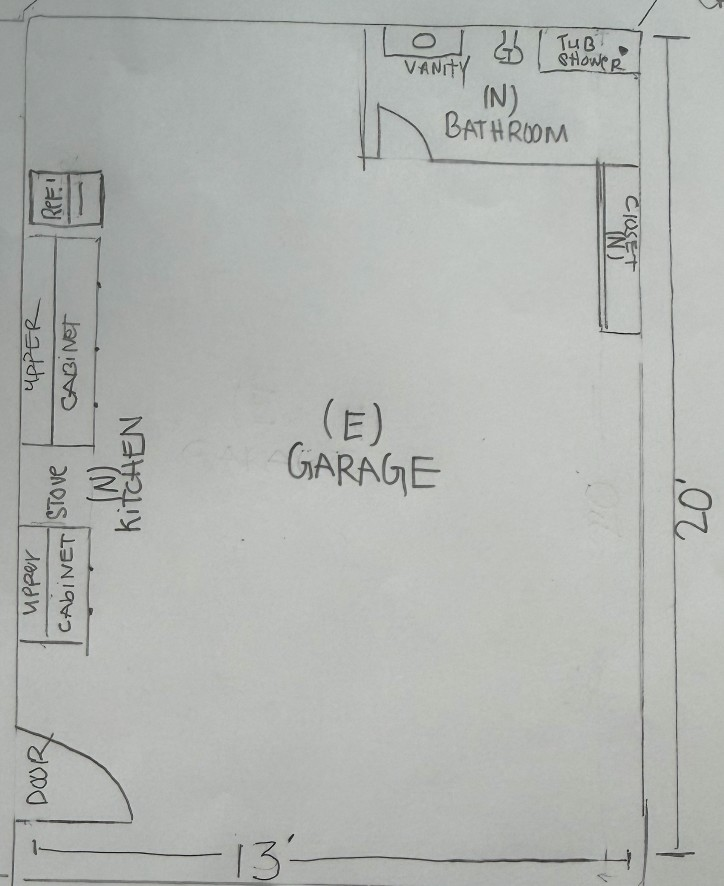
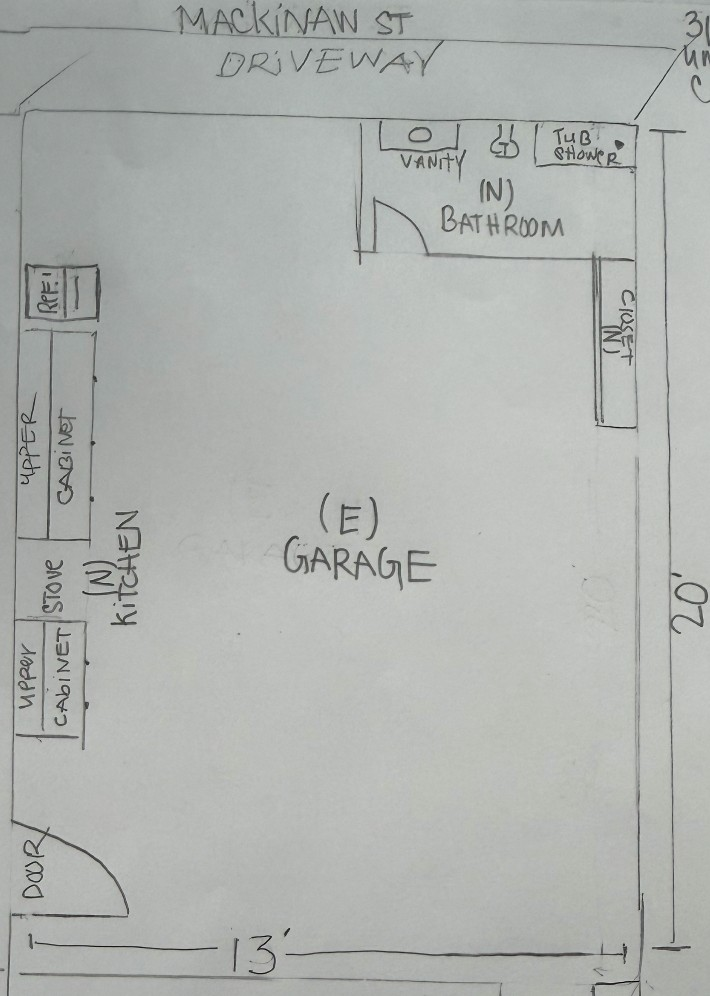
Fix Mackinaw JADU layout to match client floor plan.
Move the fridge to the driveway end of the kitchen, correct depths, and remove the street-facing window from the dollhouse.

diff --git a/vconcept/Mackinaw_Union_City/index.html b/vconcept/Mackinaw_Union_City/index.html
@@ -189,7 +189,7 @@ footer .wrap{display:flex;justify-content:space-between;gap:20px;flex-wrap:wrap}
 
 <section style="padding-top:0"><div class="wrap">
   <div class="sec-head"><div><span class="eyebrow">Floor plans</span><h2>Client sketch + modeled layout</h2></div>
-    <p>The 3D dollhouse and walkthrough follow this 13′ × 20′ garage plan: kitchen on the left, bathroom and closet on the right, entry at the front corner.</p></div>
+    <p>The 3D dollhouse and walkthrough follow this 13′ × 20′ plan: kitchen on the left (fridge at the driveway end), bathroom and closet on the right, entry opposite Mackinaw, solid street wall (no window).</p></div>
   <div class="plan-cols">
     <figure class="plan-photo">
       <img src="assets/mackinaw-floor-plan.jpg" width="1200" height="1600" alt="Hand-drawn floor plan of the 13 by 20 foot garage conversion showing new kitchen, bathroom, and closet">
@@ -197,55 +197,59 @@ footer .wrap{display:flex;justify-content:space-between;gap:20px;flex-wrap:wrap}
     </figure>
     <div>
       <div class="plan">
-<svg viewBox="0 0 340 520" role="img" aria-label="Annotated floor plan matching the client sketch">
+<svg viewBox="0 0 360 560" role="img" aria-label="Annotated floor plan matching the client sketch">
   <defs><pattern id="hatch" width="6" height="6" patternUnits="userSpaceOnUse" patternTransform="rotate(45)"><line x1="0" y1="0" x2="0" y2="6" stroke="#c9b9a0" stroke-width="2"/></pattern></defs>
-  <!-- outer shell 13w x 20d mapped to 260x400 -->
-  <rect x="40" y="40" width="260" height="400" fill="#f3ede3" stroke="#1c2630" stroke-width="5"/>
-  <!-- entry door bottom-left -->
-  <path d="M40 400 L40 360" stroke="#1c2630" stroke-width="5"/>
-  <path d="M40 400 a40 40 0 0 1 40 -40" fill="none" stroke="#8d99a4" stroke-dasharray="3 3"/>
-  <text x="58" y="430" font-family="Inter" font-size="11" fill="#5f6b75">ENTRY</text>
-  <!-- kitchen along left -->
-  <rect x="40" y="120" width="58" height="240" fill="#7f927c" opacity=".88"/>
-  <rect x="46" y="140" width="46" height="36" fill="#55634f"/>
-  <text x="69" y="162" text-anchor="middle" font-size="9" fill="#fff" font-family="Archivo,Inter" font-weight="700">STOVE</text>
-  <rect x="46" y="190" width="46" height="28" fill="#efebe5" stroke="#1c2630"/>
-  <text x="69" y="208" text-anchor="middle" font-size="8" fill="#1c2630" font-family="Inter">SINK</text>
-  <rect x="46" y="320" width="46" height="28" fill="#b9bdc0"/>
-  <text x="69" y="338" text-anchor="middle" font-size="8" fill="#1c2630" font-family="Inter">REF.</text>
-  <text x="18" y="210" transform="rotate(-90 18 210)" font-family="Archivo,Inter" font-weight="700" font-size="12" fill="#1c2630">(N) KITCHEN</text>
-  <text x="69" y="112" text-anchor="middle" font-size="9" fill="#55634f" font-family="Inter">UPPER CABINET</text>
-  <text x="69" y="300" text-anchor="middle" font-size="9" fill="#55634f" font-family="Inter">UPPER CABINET</text>
-  <!-- bathroom top-right -->
-  <rect x="190" y="40" width="110" height="130" fill="url(#hatch)" stroke="#1c2630" stroke-width="3.5"/>
-  <rect x="190" y="40" width="110" height="130" fill="#e9e3d8" opacity=".55"/>
-  <rect x="200" y="55" width="42" height="22" fill="#6e4a33"/>
-  <ellipse cx="221" cy="64" rx="8" ry="5" fill="#fff"/>
-  <text x="221" y="90" text-anchor="middle" font-size="9" fill="#1c2630" font-family="Inter">VANITY</text>
-  <ellipse cx="270" cy="78" rx="10" ry="12" fill="#fff" stroke="#1c2630"/>
-  <rect x="248" y="110" width="42" height="48" fill="#a9bba5" opacity=".85"/>
-  <text x="269" y="138" text-anchor="middle" font-size="8" fill="#1c2630" font-family="Inter">TUB</text>
-  <text x="269" y="150" text-anchor="middle" font-size="8" fill="#1c2630" font-family="Inter">SHOWER</text>
-  <!-- bath door -->
-  <path d="M190 120 L190 155" stroke="#f3ede3" stroke-width="8"/>
-  <path d="M190 120 a35 35 0 0 0 35 35" fill="none" stroke="#8d99a4" stroke-dasharray="3 3"/>
-  <text x="245" y="36" text-anchor="middle" font-family="Archivo,Inter" font-weight="700" font-size="12" fill="#1c2630">(N) BATHROOM</text>
-  <!-- closet below bath on right -->
-  <rect x="230" y="180" width="70" height="70" fill="#d9d0c1" stroke="#1c2630" stroke-width="2.5"/>
-  <line x1="247" y1="185" x2="247" y2="245" stroke="#8d7f6a" stroke-width="2"/>
-  <line x1="265" y1="185" x2="265" y2="245" stroke="#8d7f6a" stroke-width="2"/>
-  <line x1="283" y1="185" x2="283" y2="245" stroke="#8d7f6a" stroke-width="2"/>
-  <text x="265" y="270" text-anchor="middle" font-family="Archivo,Inter" font-weight="700" font-size="12" fill="#1c2630">(N) CLOSET</text>
-  <!-- center existing garage -->
-  <text x="170" y="300" text-anchor="middle" font-family="Archivo,Inter" font-weight="800" font-size="18" fill="#1c2630">(E) GARAGE</text>
-  <text x="170" y="322" text-anchor="middle" font-family="Inter" font-size="12" fill="#5f6b75">open living</text>
-  <!-- dimensions -->
-  <text x="170" y="470" text-anchor="middle" font-family="Inter" font-size="13" fill="#5f6b75">13′</text>
-  <text x="322" y="240" text-anchor="middle" transform="rotate(90 322 240)" font-family="Inter" font-size="13" fill="#5f6b75">20′</text>
+  <!-- Street / driveway at TOP -->
+  <text x="180" y="28" text-anchor="middle" font-family="Archivo,Inter" font-weight="700" font-size="12" fill="#8a6a2f" letter-spacing=".06em">MACKINAW ST DRIVEWAY</text>
+  <!-- Outer shell: 13' wide x 20' deep. Scale: 20 px/ft → 260 x 400 -->
+  <rect x="50" y="48" width="260" height="400" fill="#f3ede3" stroke="#1c2630" stroke-width="5"/>
+  <!-- Entry door BOTTOM-LEFT -->
+  <path d="M50 408 L50 368" stroke="#f3ede3" stroke-width="8"/>
+  <path d="M50 408 a40 40 0 0 1 40 -40" fill="none" stroke="#8d99a4" stroke-dasharray="3 3"/>
+  <text x="78" y="438" font-family="Inter" font-size="11" fill="#5f6b75">DOOR</text>
+  <!-- Kitchen along LEFT: ~2' deep (40px). From door toward street.
+       Order bottom→top: upper, stove, longer upper, REF at street end -->
+  <!-- base/counter run (not under fridge) -->
+  <rect x="50" y="148" width="40" height="260" fill="#7f927c" opacity=".9"/>
+  <!-- fridge at STREET end (top), full depth ~2.5' -->
+  <rect x="50" y="48" width="50" height="100" fill="#b9bdc0" stroke="#1c2630" stroke-width="1.5"/>
+  <text x="75" y="100" text-anchor="middle" font-size="12" font-family="Archivo,Inter" font-weight="700" fill="#1c2630">REF.</text>
+  <!-- stove -->
+  <rect x="54" y="300" width="32" height="36" fill="#55634f"/>
+  <text x="70" y="322" text-anchor="middle" font-size="9" fill="#fff" font-family="Archivo,Inter" font-weight="700">STOVE</text>
+  <!-- upper cabinet labels -->
+  <text x="70" y="270" text-anchor="middle" font-size="9" fill="#efebe5" font-family="Inter">UPPER CABINET</text>
+  <text x="70" y="200" text-anchor="middle" font-size="9" fill="#efebe5" font-family="Inter">UPPER CABINET</text>
+  <text x="22" y="260" transform="rotate(-90 22 260)" font-family="Archivo,Inter" font-weight="700" font-size="13" fill="#1c2630">(N) KITCHEN</text>
+  <!-- Bathroom TOP-RIGHT -->
+  <rect x="200" y="48" width="110" height="130" fill="url(#hatch)" stroke="#1c2630" stroke-width="3.5"/>
+  <rect x="200" y="48" width="110" height="130" fill="#e9e3d8" opacity=".5"/>
+  <rect x="210" y="60" width="44" height="24" fill="#6e4a33"/>
+  <ellipse cx="232" cy="70" rx="8" ry="5" fill="#fff"/>
+  <text x="232" y="100" text-anchor="middle" font-size="9" fill="#1c2630" font-family="Inter">VANITY</text>
+  <ellipse cx="280" cy="85" rx="10" ry="12" fill="#fff" stroke="#1c2630"/>
+  <rect x="255" y="115" width="45" height="50" fill="#a9bba5" opacity=".9"/>
+  <text x="277" y="140" text-anchor="middle" font-size="8" fill="#1c2630" font-family="Inter">TUB</text>
+  <text x="277" y="152" text-anchor="middle" font-size="8" fill="#1c2630" font-family="Inter">SHOWER</text>
+  <path d="M200 130 L200 165" stroke="#f3ede3" stroke-width="8"/>
+  <path d="M200 130 a34 34 0 0 0 34 34" fill="none" stroke="#8d99a4" stroke-dasharray="3 3"/>
+  <text x="255" y="42" text-anchor="middle" font-family="Archivo,Inter" font-weight="700" font-size="12" fill="#1c2630">(N) BATHROOM</text>
+  <!-- Closet on right below bath -->
+  <rect x="240" y="188" width="70" height="72" fill="#d9d0c1" stroke="#1c2630" stroke-width="2.5"/>
+  <line x1="257" y1="193" x2="257" y2="255" stroke="#8d7f6a" stroke-width="2"/>
+  <line x1="275" y1="193" x2="275" y2="255" stroke="#8d7f6a" stroke-width="2"/>
+  <line x1="293" y1="193" x2="293" y2="255" stroke="#8d7f6a" stroke-width="2"/>
+  <text x="275" y="280" text-anchor="middle" font-family="Archivo,Inter" font-weight="700" font-size="12" fill="#1c2630">(N) CLOSET</text>
+  <!-- Center -->
+  <text x="175" y="330" text-anchor="middle" font-family="Archivo,Inter" font-weight="800" font-size="18" fill="#1c2630">(E) GARAGE</text>
+  <!-- Dimensions -->
+  <text x="180" y="478" text-anchor="middle" font-family="Inter" font-size="14" fill="#5f6b75">13′</text>
+  <text x="336" y="248" text-anchor="middle" transform="rotate(90 336 248)" font-family="Inter" font-size="14" fill="#5f6b75">20′</text>
+  <text x="180" y="520" text-anchor="middle" font-family="Inter" font-size="11" fill="#8a6a2f">Street wall has no window · fridge at driveway end of kitchen</text>
 </svg>
       </div>
       <div class="legend" style="margin-top:16px">
-        <div><i style="background:#7f927c"></i><span><b>(N) Kitchen</b>Side-wall run with uppers, stove, and refrigerator.</span></div>
+        <div><i style="background:#7f927c"></i><span><b>(N) Kitchen</b>~2′ deep side-wall run; refrigerator at the Mackinaw / driveway end.</span></div>
         <div><i style="background:#e9e3d8;border:1px solid #c9b9a0"></i><span><b>(N) Bathroom</b>Vanity, toilet, and tub/shower in the corner enclosure.</span></div>
         <div><i style="background:#d9d0c1;border:1px solid #1c2630"></i><span><b>(N) Closet</b>Storage along the right wall below the bath.</span></div>
         <div><i style="background:#f3ede3;border:1px solid #1c2630"></i><span><b>(E) Garage</b>Existing 13′ × 20′ footprint kept as open living.</span></div>
@@ -554,9 +558,9 @@ Engine.prototype.drawScene=function(vp,cam,visible){
 window.JADU={Engine,M4,V,hex,FT2M};
 })();
 </script>
-<script>/* After-scene: furnished JADU (units: feet). Room x[-6.5,6.5] y[0,8.5] z[-10,10] = 13' x 20'
-   Matches client plan: kitchen on left (-x), bathroom + closet on right (+x),
-   entry at front-left (+z), open living in center. Décor is illustrative only. */
+<script>/* After-scene: furnished JADU (units: feet). Room 13' x 20' (x±6.5, z±10).
+   Plan: +z entry door, -z Mackinaw driveway (solid, no window), -x kitchen with
+   fridge at street end, +x bathroom (street corner) + closet. Décor illustrative only. */
 (function(){
 'use strict';
 let mid=0;
@@ -581,151 +585,137 @@ const MAT={
 
 function build(E){
   const B=(x0,y0,z0,x1,y1,z1,m,o)=>E.box(x0,y0,z0,x1,y1,z1,m,o);
-  const shadow=(x,z,w,d,a)=>{E.rect([x,0.025,z],[1,0,0],[0,0,-1],w/2,d/2,a?Object.assign({},MAT.shadow):MAT.shadow);};
-  const WX=6.5, WZ=10; // half-extents → 13' x 20'
+  const shadow=(x,z,w,d)=>{E.rect([x,0.025,z],[1,0,0],[0,0,-1],w/2,d/2,MAT.shadow);};
+  /* Room 13' x 20'. Mapping to client drawing:
+     +z = entry door wall (bottom of plan)
+     -z = Mackinaw St driveway / street (top of plan) — SOLID, no window
+     -x = kitchen wall (left of plan)
+     +x = bath + closet wall (right of plan) */
+  const WX=6.5, WZ=10;
+  const KD=2.0;      // kitchen counter depth ≈ 2'
+  const FD=2.5;      // fridge depth ≈ 2.5'
 
-  /* ===== shell ===== */
+  /* ===== shell — solid street wall, entry only on +z ===== */
   E.rect([0,0,0],[1,0,0],[0,0,-1],WX,WZ,MAT.floor);
   E.rect([0,8.5,0],[1,0,0],[0,0,1],WX,WZ,MAT.ceil,'ceil');
   B(-WX-.3,-0.6,-WZ-.3,WX+.3,0,WZ+.3,MAT.slab,{group:'base',skip:'Y'});
   const wq=(x0,x1,y0,y1,z,nz,g)=>E.rect([(x0+x1)/2,(y0+y1)/2,z],[nz>0?1:-1,0,0],[0,1,0],(x1-x0)/2,(y1-y0)/2,MAT.wall,g);
   const wx=(z0,z1,y0,y1,x,nx,g)=>E.rect([x,(y0+y1)/2,(z0+z1)/2],[0,0,nx>0?-1:1],[0,1,0],(z1-z0)/2,(y1-y0)/2,MAT.wall,g);
-  // back wall z=-10
-  wq(-WX,WX,0,8.5,-WZ,1,'back');
-  // front wall z=+10 — entry door near left (x -6.5..-3.6), window center-right
-  wq(-WX,-6.2,0,8.5,WZ,-1,'front');
-  wq(-3.6,1.2,0,2.5,WZ,-1,'front');wq(-3.6,1.2,7.0,8.5,WZ,-1,'front');
-  wq(1.2,3.2,0,8.5,WZ,-1,'front');
-  wq(3.2,5.5,6.9,8.5,WZ,-1,'front');
-  wq(5.5,WX,0,8.5,WZ,-1,'front');
-  // left wall (kitchen) / right wall (bath+closet)
+  // street wall (-z) fully solid — no window toward Mackinaw
+  wq(-WX,WX,0,8.5,-WZ,1,'street');
+  // entry wall (+z): door at left only — remainder solid (no window)
+  wq(-WX,-6.1,0,8.5,WZ,-1,'entry');
+  wq(-6.1,-3.7,6.85,8.5,WZ,-1,'entry');       // header above door
+  wq(-3.7,WX,0,8.5,WZ,-1,'entry');
   wx(-WZ,WZ,0,8.5,-WX,1,'left');
   wx(-WZ,WZ,0,8.5,WX,-1,'right');
-  // baseboards
   B(-WX,0,-WZ,-WX+.05,.35,WZ,MAT.trim,{group:'left'});
   B(WX-.05,0,-WZ,WX,.35,WZ,MAT.trim,{group:'right'});
-  B(-WX,0,-WZ,WX,.35,-WZ+.05,MAT.trim,{group:'back'});
-  // recessed lights
-  [[-2,-6],[2,-6],[-2,0],[2,0],[-2,6],[2,5]].forEach(([x,z])=>{
+  B(-WX,0,-WZ,WX,.35,-WZ+.05,MAT.trim,{group:'street'});
+  B(-WX,0,WZ-.05,WX,.35,WZ,MAT.trim,{group:'entry'});
+  [[-2,-6],[2,-6],[-2,0],[2,0],[-2,5],[1.5,5]].forEach(([x,z])=>{
     E.cyl([x,8.44,z],.26,.06,MAT.lightE,{group:'ceil',seg:20});
     E.cyl([x,8.42,z],.33,.07,MAT.trim,{group:'ceil',seg:20,open:1});
   });
 
-  /* ===== entry door (front-left) ===== */
-  B(-6.15,0,WZ-.12,-3.75,6.85,WZ-.02,MAT.door,{group:'front'});
-  B(-6.25,0,WZ-.14,-6.15,7.0,WZ,MAT.trim,{group:'front'});
-  B(-3.75,0,WZ-.14,-3.65,7.0,WZ,MAT.trim,{group:'front'});
-  B(-6.25,6.85,WZ-.14,-3.65,7.0,WZ,MAT.trim,{group:'front'});
-  B(-4.15,3.1,WZ-.16,-3.95,3.18,WZ-.04,MAT.black,{group:'front'});
+  /* ===== entry door (+z, left) ===== */
+  B(-6.05,0,WZ-.14,-3.85,6.85,WZ-.02,MAT.door,{group:'entry'});
+  B(-6.15,0,WZ-.16,-6.05,7.05,WZ,MAT.trim,{group:'entry'});
+  B(-3.85,0,WZ-.16,-3.75,7.05,WZ,MAT.trim,{group:'entry'});
+  B(-6.15,6.85,WZ-.16,-3.75,7.05,WZ,MAT.trim,{group:'entry'});
+  B(-4.2,3.1,WZ-.18,-4.0,3.18,WZ-.04,MAT.black,{group:'entry'});
 
-  /* ===== kitchen along LEFT wall (-x), matching plan ===== */
-  // base cabinets + counter from back toward front, fridge at front-of-run near entry
-  B(-WX,.35,-8.6,-WX+2.05,2.95,6.2,MAT.sageDark);
-  B(-WX,0,-8.5,-WX+2.0,.35,6.1,MAT.toeKick);
-  // cabinet doors
-  for(let z=-8.2; z<5.8; z+=1.55){
-    B(-WX+2.0,.4,z,-WX+2.08,2.9,z+1.4,MAT.sage);
-    B(-WX+2.02,1.7,z+.55,-WX+2.1,2.35,z+.65,MAT.black);
+  /* ===== kitchen on LEFT (-x)
+     From entry (+z) toward street (-z): uppers → stove → longer uppers → REF at street end */
+  const kx1=-WX+KD; // front of counters
+  // base cabinets (exclude fridge bay at street end)
+  B(-WX,.35,-7.4,kx1,2.95,7.6,MAT.sageDark);
+  B(-WX,0,-7.35,kx1-.05,.35,7.55,MAT.toeKick);
+  for(let z=-7.1; z<7.3; z+=1.5){
+    B(kx1-.02,.42,z,kx1+.06,2.9,Math.min(z+1.35,7.45),MAT.sage);
+    B(kx1,1.65,z+.55,kx1+.08,2.35,z+.65,MAT.black);
   }
-  // stove
-  B(-WX+2.05,3.0,-2.1,-WX+2.08,3.12,-.3,MAT.glassBlack);
-  E.cyl([-WX+1.1,3.125,-1.5],.22,.004,MAT.sinkDark,{seg:18});
-  E.cyl([-WX+1.1,3.125,-.9],.22,.004,MAT.sinkDark,{seg:18});
-  // sink
-  B(-WX+.55,3.12,1.0,-WX+1.7,3.125,2.2,MAT.sinkDark);
-  E.cyl([-WX+1.1,3.12,2.45],.07,.7,MAT.black,{seg:12});
-  E.cyl([-WX+1.1,3.75,2.45],.04,.45,MAT.black,{axis:'z',seg:10});
-  // fridge near front of kitchen run
-  B(-WX,.35,4.4,-WX+2.05,6.8,6.2,MAT.steel);
-  B(-WX+.15,3.2,6.15,-WX+1.9,3.3,6.22,MAT.black);
-  // countertop
-  B(-WX,2.95,-8.65,-WX+2.15,3.12,4.35,MAT.quartz);
-  // backsplash
-  B(-WX+.02,3.12,-8.6,-WX+.05,5.1,4.3,MAT.zellige,{group:'left'});
-  // upper cabinets
-  B(-WX,5.2,-8.5,-WX+1.35,8.2,-3.0,MAT.sageDark);
-  B(-WX+.02,5.25,-8.4,-WX+1.32,8.15,-8.35,MAT.sage);
-  B(-WX+.02,5.25,-5.6,-WX+1.32,8.15,-5.55,MAT.sage);
-  B(-WX,5.2,2.6,-WX+1.35,8.2,4.2,MAT.sageDark);
-  B(-WX+.02,5.25,2.7,-WX+1.32,8.15,2.75,MAT.sage);
-  // open shelves mid-run
-  [5.5,6.7].forEach(y=>{B(-WX+.1,y,-2.2,-WX+1.5,y+.12,.8,MAT.oakH);});
-  E.rect([-WX+.8,5.49,-.7],[0,0,1],[1,0,0],1.4,.35,MAT.lightE);
+  // stove (toward entry half of run)
+  B(-WX+.15,3.0,2.2,kx1+.02,3.12,3.6,MAT.glassBlack);
+  E.cyl([-WX+1.0,3.125,2.7],.2,.004,MAT.sinkDark,{seg:16});
+  E.cyl([-WX+1.0,3.125,3.15],.2,.004,MAT.sinkDark,{seg:16});
+  // sink between stove and street-side uppers
+  B(-WX+.4,3.12,-.2,kx1-.1,3.125,1.0,MAT.sinkDark);
+  E.cyl([-WX+1.0,3.12,1.15],.06,.65,MAT.black,{seg:10});
+  E.cyl([-WX+1.0,3.7,1.15],.035,.4,MAT.black,{axis:'z',seg:8});
+  // countertop over base only (stops before fridge)
+  B(-WX,2.95,-7.45,kx1+.08,3.12,7.55,MAT.quartz);
+  B(-WX+.02,3.12,-7.4,-WX+.05,5.0,7.5,MAT.zellige,{group:'left'});
+  // upper cabinets: short near entry, longer toward street (before fridge)
+  B(-WX,5.15,4.2,-WX+1.25,8.15,7.5,MAT.sageDark);
+  B(-WX+.02,5.2,4.3,-WX+1.22,8.1,4.35,MAT.sage);
+  B(-WX,5.15,-7.2,-WX+1.25,8.15,1.8,MAT.sageDark);
+  B(-WX+.02,5.2,-7.1,-WX+1.22,8.1,-7.05,MAT.sage);
+  B(-WX+.02,5.2,-3.0,-WX+1.22,8.1,-2.95,MAT.sage);
+  B(-WX+.02,5.2,.6,-WX+1.22,8.1,.65,MAT.sage);
+  // REF at STREET / driveway end of kitchen (plan top)
+  B(-WX,.02,-WZ,-WX+FD,7.0,-7.45,MAT.steel);
+  B(-WX+.2,3.3,-7.5,-WX+FD-.15,3.4,-7.45,MAT.black);
+  B(-WX+.15,6.4,-WZ+.1,-WX+FD-.1,6.55,-7.5,MAT.black);
 
-  /* ===== bathroom top-right (+x, -z) ===== */
-  const bx0=2.6, bx1=WX, bz0=-WZ, bz1=-4.0;
-  B(bx0,0,bz0,bx0+.28,8.5,bz1,MAT.wall);          // bath front wall (faces living)
-  B(bx0,0,bz0,bx1,8.5,bz0+.28,MAT.wall);         // bath back
-  B(bx0,6.7,bz0+.28,bx0+.28,8.5,-5.6,MAT.wall);  // header over door
-  // bath door opening around z=-6.8
-  B(bx0+.05,0,-5.55,bx0+.18,6.7,-4.15,MAT.oak); // door leaf open
-  B(bx0,7.0,-7.2,bx0+.08,7.12,-4.2,MAT.black);
-  // finishes
-  E.rect([(bx0+bx1)/2,.012,(bz0+bz1)/2],[1,0,0],[0,0,-1],(bx1-bx0)/2,(bz1-bz0)/2,MAT.bathTile);
-  E.rect([bx1-.01,4.25,(bz0+bz1)/2],[0,0,1],[0,1,0],(bz1-bz0)/2,4.25,MAT.bathTile);
-  // vanity
-  B(3.0,1.5,-9.6,5.0,2.7,-8.3,MAT.walnut);
-  B(2.95,2.7,-9.65,5.05,2.82,-8.25,MAT.quartz);
-  E.cyl([4.0,2.82,-8.95],.42,.38,MAT.ceramic,{r2:.52,seg:22});
-  E.cyl([WX-.08,5.1,-8.95],.95,.03,MAT.mirror,{axis:'x',seg:36});
+  /* ===== bathroom top-right: street (-z) + right (+x) corner ===== */
+  const bx0=2.7, bz1=-4.15;
+  B(bx0,0,-WZ,bx0+.28,8.5,bz1,MAT.wall);
+  B(bx0,0,-WZ,WX,8.5,-WZ+.28,MAT.wall);
+  B(bx0,6.7,-WZ+.28,bx0+.28,8.5,-5.7,MAT.wall);
+  B(bx0+.04,0,-5.65,bx0+.16,6.7,-4.3,MAT.oak);
+  B(bx0,7.0,-7.3,bx0+.08,7.12,-4.3,MAT.black);
+  E.rect([(bx0+WX)/2,.012,(-WZ+bz1)/2],[1,0,0],[0,0,-1],(WX-bx0)/2,(bz1+WZ)/2,MAT.bathTile);
+  E.rect([WX-.02,4.2,(-WZ+bz1)/2],[0,0,1],[0,1,0],(bz1+WZ)/2,4.2,MAT.bathTile);
+  // vanity on street wall inside bath
+  B(3.1,1.5,-9.7,5.1,2.7,-8.4,MAT.walnut);
+  B(3.05,2.7,-9.75,5.15,2.82,-8.35,MAT.quartz);
+  E.cyl([4.1,2.82,-9.05],.4,.36,MAT.ceramic,{r2:.5,seg:20});
+  E.cyl([WX-.1,5.05,-9.05],.9,.03,MAT.mirror,{axis:'x',seg:32});
   // toilet
-  E.cyl([5.5,1.0,-7.2],.34,.4,MAT.ceramic,{r2:.4,seg:18});
-  B(5.5,1.0,-7.55,WX-.05,1.4,-6.85,MAT.ceramic);
+  E.cyl([5.55,1.0,-7.35],.32,.38,MAT.ceramic,{r2:.38,seg:16});
+  B(5.55,1.0,-7.7,WX-.08,1.38,-6.95,MAT.ceramic);
   // tub/shower
-  B(3.1,0,-6.35,WX-.05,1.55,-4.35,MAT.bathTile);
-  B(3.1,1.55,-6.35,WX-.05,1.65,-4.35,MAT.ceramic);
-  E.rect([(3.1+WX)/2,4.0,-4.4],[1,0,0],[0,1,0],1.6,3.8,MAT.glass);
-  E.cyl([4.8,7.3,-5.3],.35,.04,MAT.black,{seg:18});
-  E.cyl([4.8,7.34,-5.3],.03,.7,MAT.black,{seg:8});
+  B(3.15,0,-6.5,WX-.08,1.5,-4.4,MAT.bathTile);
+  B(3.15,1.5,-6.5,WX-.08,1.6,-4.4,MAT.ceramic);
+  E.rect([(3.15+WX)/2,4.0,-4.45],[1,0,0],[0,1,0],1.55,3.7,MAT.glass);
+  E.cyl([4.85,7.25,-5.4],.32,.04,MAT.black,{seg:16});
 
-  /* ===== closet on right wall below bath ===== */
-  B(3.9,0,-3.9,WX,8.2,-.6,MAT.wall);
-  B(3.9,0,-3.9,4.1,8.2,-.6,MAT.wall);
-  B(4.15,0,-3.85,WX-.05,7.6,-.7,MAT.oak); // doors
-  B(4.12,3.2,-2.4,4.18,4.0,-2.2,MAT.black);
-  B(4.2,5.8,-3.7,WX-.1,5.95,-.8,MAT.oakH); // rod shelf
-  // closet label wall face
-  B(3.9,0,-.6,WX,.35,-.55,MAT.trim);
+  /* ===== closet on right wall, just below bath (toward entry) ===== */
+  B(4.0,0,-4.05,WX,8.1,-.5,MAT.wall);
+  B(4.0,0,-4.05,4.2,8.1,-.5,MAT.wall);
+  B(4.22,0,-3.95,WX-.08,7.5,-.65,MAT.oak);
+  B(4.18,3.1,-2.4,4.24,3.9,-2.2,MAT.black);
+  B(4.3,5.7,-3.85,WX-.15,5.85,-.75,MAT.oakH);
 
-  /* ===== living center (illustrative furniture — not in scope) ===== */
-  B(-1.8,0,-1.5,3.2,.03,5.5,MAT.rug);
-  shadow(.6,2.2,4.2,5.5);
-  B(.2,.38,0.5,2.8,1.45,5.0,MAT.fabric);
-  B(.15,1.45,0.7,2.7,1.75,2.6,MAT.fabric);B(.15,1.45,2.8,2.7,1.75,4.8,MAT.fabric);
-  B(2.8,.38,0.3,3.35,2.6,5.2,MAT.fabric);
-  E.cyl([-0.6,1.1,2.5],.95,.12,MAT.walnut,{seg:36});
-  E.cyl([-0.6,0,2.5],.35,1.1,MAT.black,{r2:.25,seg:20});
-  // simple sleep zone opposite kitchen (left-front open area)
-  B(-4.2,0,-.5,-2.0,.45,3.5,MAT.linen);
-  B(-4.3,.45,-.4,-2.1,.55,3.4,MAT.cream);
+  /* ===== living (illustrative only) ===== */
+  B(-1.4,0,-1.2,3.0,.03,5.2,MAT.rug);
+  shadow(.7,2.0,3.8,5.2);
+  B(.3,.38,.4,2.7,1.42,4.8,MAT.fabric);
+  B(.25,1.42,.6,2.55,1.72,2.5,MAT.fabric);B(.25,1.42,2.7,2.55,1.72,4.6,MAT.fabric);
+  B(2.7,.38,.25,3.2,2.55,5.0,MAT.fabric);
+  E.cyl([-0.4,1.08,2.3],.9,.12,MAT.walnut,{seg:32});
+  B(-4.0,0,.2,-2.0,.4,3.2,MAT.linen);
 
-  /* front window */
-  E.rect([-1.2,4.75,WZ+.05],[-1,0,0],[0,1,0],2.2,2.1,MAT.view,'front');
-  B(-3.5,2.4,WZ-.2,1.1,2.55,WZ,MAT.oakH,{group:'front'});
-  B(-3.5,2.55,WZ-.1,-3.35,6.95,WZ,MAT.black,{group:'front'});
-  B(.95,2.55,WZ-.1,1.1,6.95,WZ,MAT.black,{group:'front'});
-  B(-3.5,6.8,WZ-.1,1.1,6.95,WZ,MAT.black,{group:'front'});
-
-  /* lights */
   const Ww=[1,.86,.72]; const s=(c,k)=>c.map(v=>v*k);
   E.lights=[
-    {p:[-3.5,8.0,-2],c:s(Ww,1.15),r:7},
-    {p:[-3.5,8.0,3],c:s(Ww,1.0),r:7},
-    {p:[1.5,8.0,-6],c:s(Ww,.85),r:5},
-    {p:[1.2,8.0,2],c:s(Ww,.95),r:7},
-    {p:[4.5,7.4,-6.5],c:s(Ww,.7),r:3.5},
-    {p:[-1,5.0,9.2],c:s([.85,.92,1],.95),r:6}
+    {p:[-3.2,8.0,-3],c:s(Ww,1.1),r:7},
+    {p:[-3.2,8.0,3],c:s(Ww,1.0),r:7},
+    {p:[1.4,8.0,-6],c:s(Ww,.8),r:5},
+    {p:[1.0,8.0,2],c:s(Ww,.95),r:7},
+    {p:[4.6,7.3,-6.6],c:s(Ww,.65),r:3.4},
+    {p:[-2.5,6.5,8.5],c:s([.9,.9,1],.7),r:5}
   ];
 }
 
 const LABELS=[
-  {id:'kitchen',t:'Kitchen (per plan)',p:[-4.2,7.2,-1.0]},
-  {id:'bath',t:'Bathroom · tub/shower',p:[3.0,7.4,-6.5]},
-  {id:'closet',t:'Closet',p:[4.2,7.2,-2.2]},
-  {id:'living',t:'Living · existing garage',p:[0.5,3.8,2.0]},
-  {id:'entry',t:'Entry',p:[-4.8,7.0,8.8]}
+  {id:'kitchen',t:'Kitchen · fridge at driveway end',p:[-4.5,7.1,-8.2]},
+  {id:'bath',t:'Bathroom · tub/shower',p:[3.1,7.3,-6.6]},
+  {id:'closet',t:'Closet',p:[4.3,7.1,-2.2]},
+  {id:'living',t:'Living · existing garage',p:[0.4,3.8,2.0]},
+  {id:'entry',t:'Entry door',p:[-4.8,7.0,8.7]}
 ];
-const VIEWS={kitchen:{yaw:280,pitch:-8},bath:{yaw:55,pitch:-6},closet:{yaw:85,pitch:-5},living:{yaw:200,pitch:-10},entry:{yaw:160,pitch:-6}};
+const VIEWS={kitchen:{yaw:275,pitch:-8},bath:{yaw:50,pitch:-6},closet:{yaw:90,pitch:-5},living:{yaw:200,pitch:-10},entry:{yaw:165,pitch:-6}};
 
 window.JADU_SCENE={build,LABELS,VIEWS,MAT};
 })();
